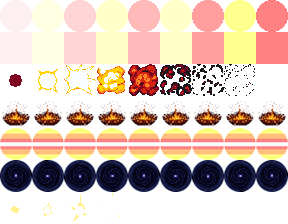
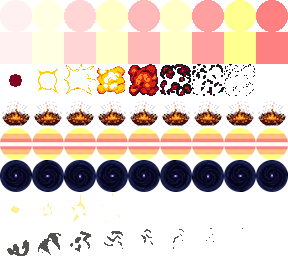
VFX Update

diff --git a/Source/InGame/VFX.cpp b/Source/InGame/VFX.cpp
@@ -45,7 +45,7 @@ namespace InGame
 	{
 		Actor::Init();
 		Texture = AEGfxTextureLoad("Assets/VFX.png");
-		Mesh = Utils::CreateMesh(7,9);
+		Mesh = Utils::CreateMesh(8,9);
 		MaxAnimationCount[WarningCircle] = 9;
 		MaxAnimationCount[WarningSquare] = 9;
 		MaxAnimationCount[Explosion] = 9;
@@ -53,6 +53,7 @@ namespace InGame
 		MaxAnimationCount[Laser] = 9;
 		MaxAnimationCount[BlackHole] = 9;
 		MaxAnimationCount[HitMark] = 4;
+		MaxAnimationCount[KillSmoke] = 8;
 	}
 	void VFXManager::Update()
 	{
@@ -88,7 +89,7 @@ namespace InGame
 				AEVec2Set(&position, DataItem->position.x, DataItem->position.y);
 				AEVec2Set(&size, DataItem->size.x, DataItem->size.y);
 				offset.x = DataItem->Animationoffset;
-				offset.y = DataItem->Type / 7.f;
+				offset.y = DataItem->Type / 8.f;
 				direction = DataItem->Direction;
 				Utils::DrawObjectWithDirection(*this, 1.f);
 			}
@@ -97,7 +98,7 @@ namespace InGame
 				AEVec2Set(&position, DataItem->position.x, DataItem->position.y);
 				AEVec2Set(&size, DataItem->size.x, DataItem->size.y);
 				offset.x = DataItem->Animationoffset;
-				offset.y = DataItem->Type / 7.f;
+				offset.y = DataItem->Type / 8.f;
 				Utils::DrawObject(*this);
 			}
 		}
@@ -148,6 +149,13 @@ namespace InGame
 				break;
 			}
 			case VFXType::HitMark:
+			{
+				NewData->MaxTimer = Duration;
+				AEVec2Set(&NewData->size, InSize.x, InSize.y);
+				AEVec2Set(&NewData->position, InPosition.x, InPosition.y);
+				break;
+			}
+			case VFXType::KillSmoke:
 			{
 				NewData->MaxTimer = Duration;
 				AEVec2Set(&NewData->size, InSize.x, InSize.y);

diff --git a/Source/InGame/Projectile.cpp b/Source/InGame/Projectile.cpp
@@ -222,16 +222,27 @@ void InGame::Projectile::OnHit(EnemyCharacter* target)
 		}
 	}
 	HitCount--;
-	if (Manager::gm.currStateREF)
-	{
-		Manager::Playing* GS = static_cast<Manager::Playing*>(Manager::gm.currStateREF);
-		if (GS)
+	
+		if (Manager::gm.currStateREF)
 		{
-			AEVec2 DrawSize;
-			AEVec2Set(&DrawSize, size.x + 10.f, size.y + 10.f);
-			GS->VFXManager.AddNewVFX(VFXType::HitMark, target->position, DrawSize, 0.3f);
+			Manager::Playing* GS = static_cast<Manager::Playing*>(Manager::gm.currStateREF);
+			if (GS)
+			{
+				AEVec2 DrawSize;
+				
+				if (target->bIsPandingKill)
+				{
+					AEVec2Set(&DrawSize, target->size.x + 10.f, target->size.y + 10.f);
+					GS->VFXManager.AddNewVFX(VFXType::KillSmoke, target->position, DrawSize, 0.5f);
+				}
+				else
+				{
+					AEVec2Set(&DrawSize, size.x + 10.f, size.y + 10.f);
+					GS->VFXManager.AddNewVFX(VFXType::HitMark, target->position, DrawSize, 0.3f);
+				}
+			}
 		}
-	}
+	
 	if (isExplosive)
 	{
 		Explode(target);

diff --git a/Source/InGame/VFX.h b/Source/InGame/VFX.h
@@ -14,7 +14,8 @@ namespace InGame
 		Laser = 4,
 		BlackHole = 5,
 		HitMark = 6,
-		SoulOrbVfx = 7,//SoulOrbVFX must be last
+		KillSmoke = 7,
+		SoulOrbVfx = 8,//SoulOrbVFX must be last
 	};
 	struct VFXData
 	{
